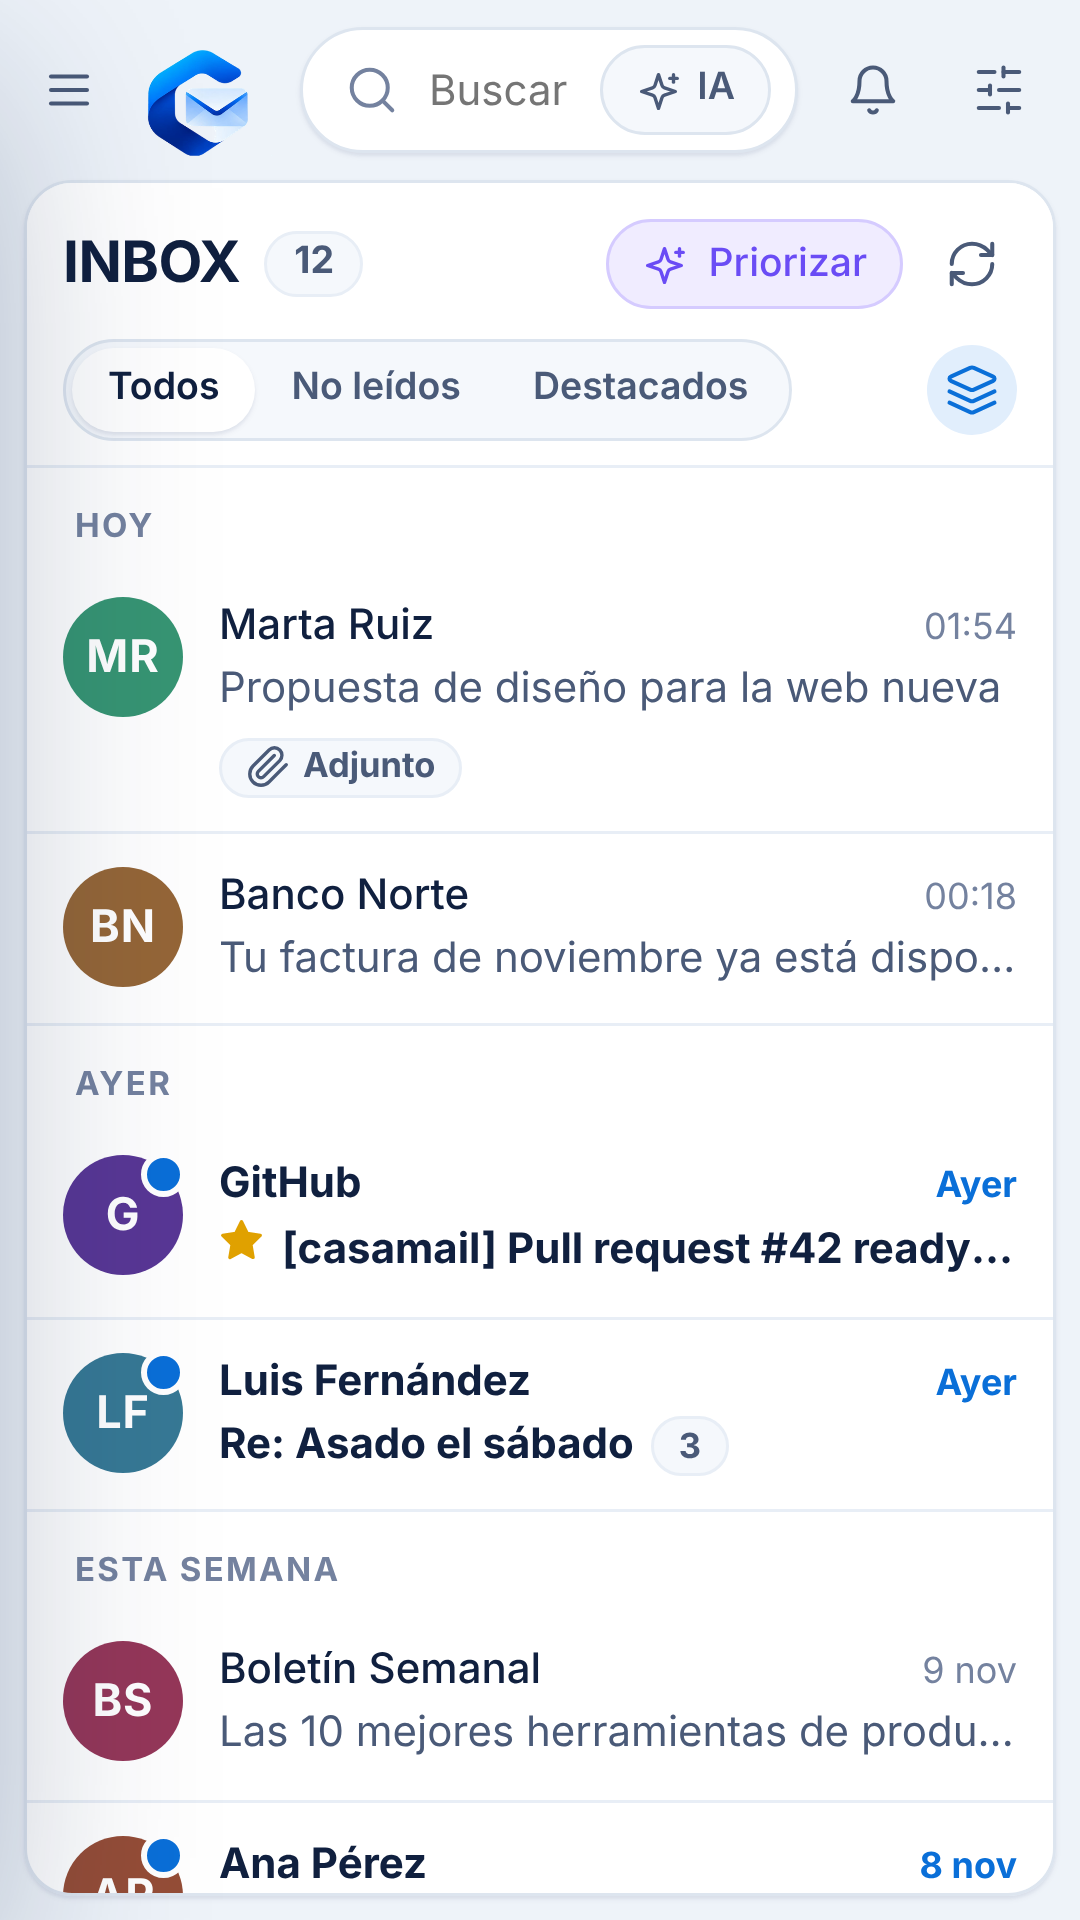
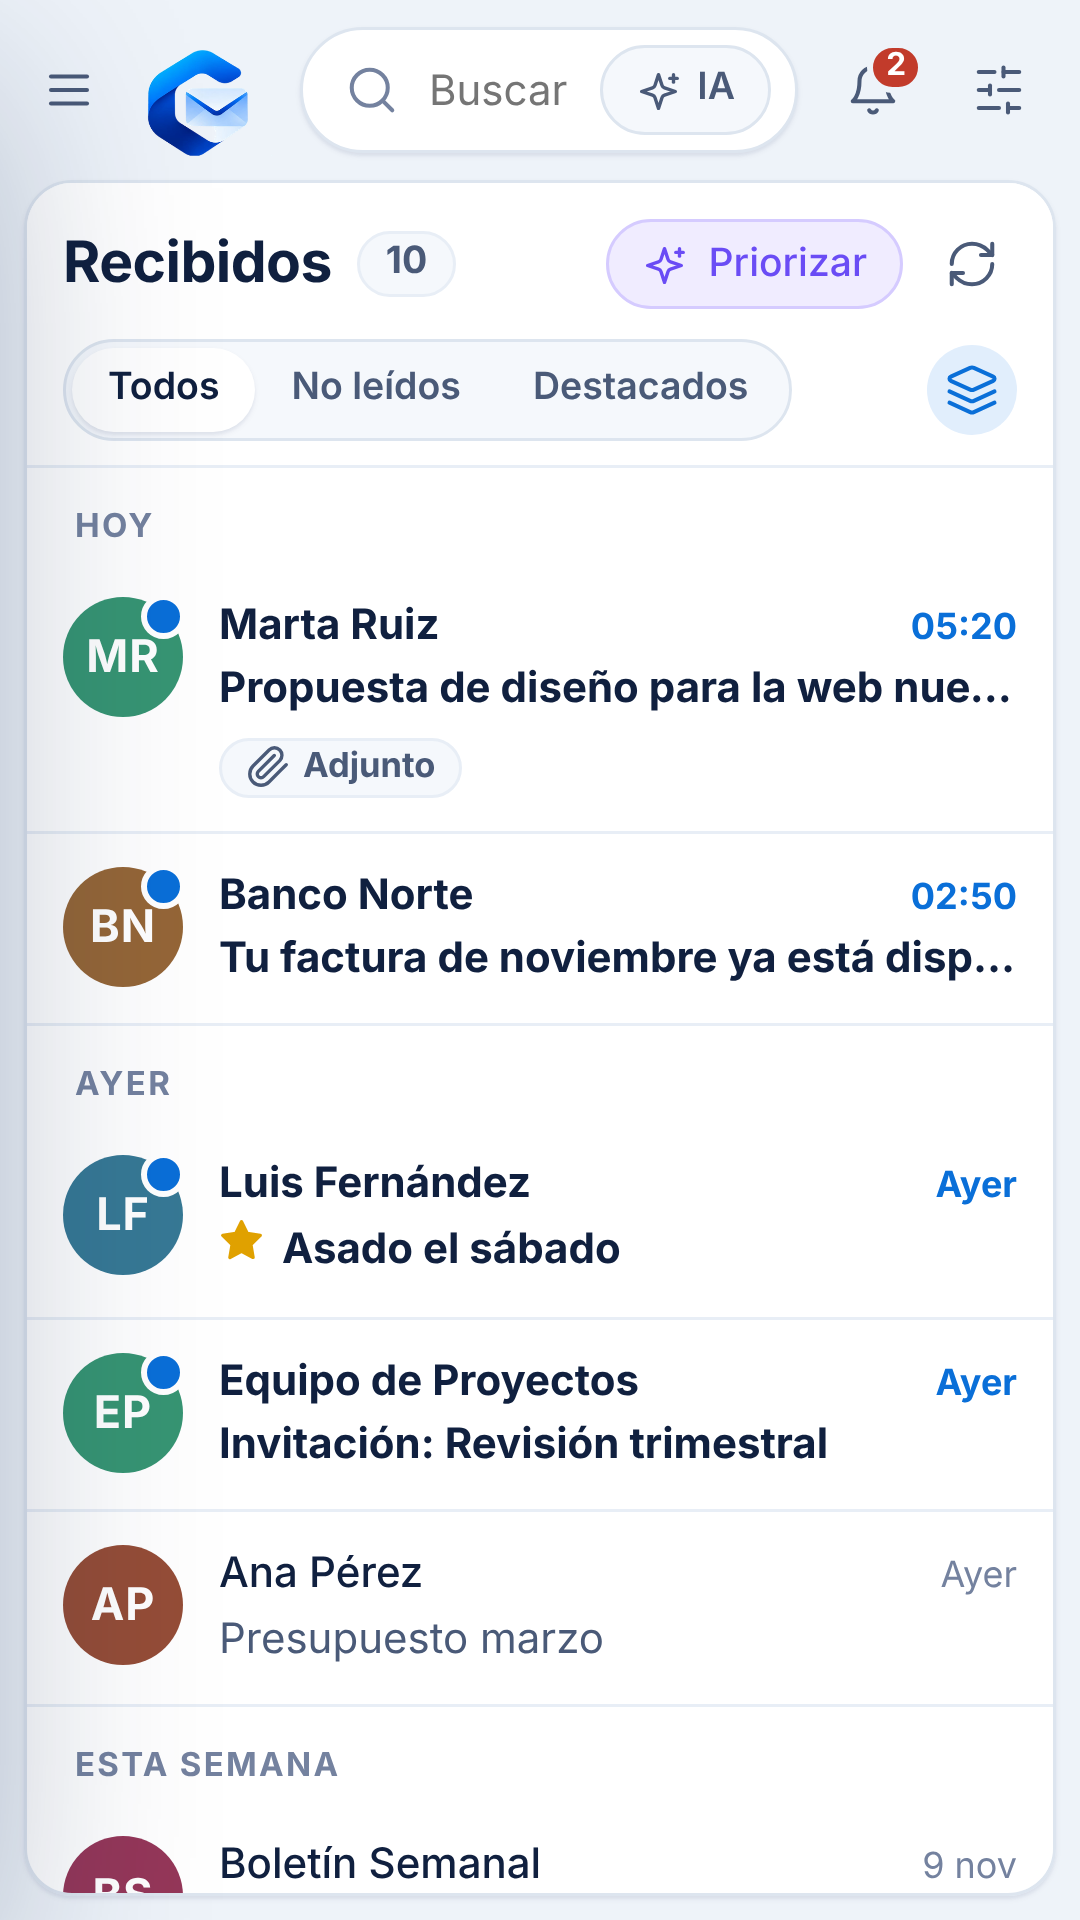
Capturas de Play con el modo demostración (6) y arreglo del calendario en pantallas estrechas
Claude-Session: https://claude.ai/code/session_017u4MCLijckaueg6bw4W1Fd

diff --git a/tests/play-shots.ts b/tests/play-shots.ts
@@ -1,0 +1,18 @@
+// Capturas de teléfono para Google Play (1080×1920) con el modo demostración. Uso: OUT=android/play PW_PATH=... npx tsx tests/play-shots.ts
+import fs from "node:fs"; import os from "node:os"; import path from "node:path"; import { spawn } from "node:child_process";
+process.env.CASAMAIL_HOME = fs.mkdtempSync(path.join(os.tmpdir(), "cm-playshots-"));
+const OUT = process.env.OUT ?? "android/play"; fs.mkdirSync(OUT, { recursive: true });
+const { chromium } = await import(process.env.PW_PATH ?? "playwright");
+const web = spawn("node", ["--import", "tsx", "src/web.ts"], { env: { ...process.env, PORT: "8086", CASAMAIL_TOKEN: "tok", CASAMAIL_NO_OPEN: "1", CASAMAIL_NO_WARMUP: "1" }, stdio: "ignore" });
+process.on("exit", () => web.kill()); await new Promise((r) => setTimeout(r, 3500));
+const b = await chromium.launch();
+const mk = async (scheme: "light" | "dark") => { const c = await b.newContext({ viewport: { width: 360, height: 640 }, deviceScaleFactor: 3, isMobile: true, hasTouch: true, colorScheme: scheme }); const p = await c.newPage(); p.setDefaultTimeout(12000); await p.goto("http://127.0.0.1:8086/?t=tok#demo"); await p.waitForSelector(".m"); await p.waitForTimeout(500); await p.evaluate(() => document.getElementById("demobar")?.remove()); return p; };
+const shot = async (p: any, n: string) => { await p.waitForTimeout(450); await p.screenshot({ path: `${OUT}/${n}.png` }); console.log("  📸", n); };
+const pg = await mk("light");
+await shot(pg, "play-1-bandeja");
+await pg.locator(".m", { hasText: "Propuesta de diseño" }).first().click(); await pg.waitForSelector(".vsub"); await shot(pg, "play-2-mensaje");
+await pg.click("#ais"); await pg.waitForSelector(".card-ai pre"); await shot(pg, "play-3-yerleny-resumen");
+await pg.click("#back"); await pg.click("#bell"); await pg.waitForSelector("#npanel .nrow"); await shot(pg, "play-4-avisos");
+await pg.evaluate(() => (document as any).querySelector("#bell").click()); await pg.click("#menu"); await pg.click("[data-cal]"); await pg.waitForSelector(".calev"); await shot(pg, "play-5-calendario");
+const dk = await mk("dark"); await shot(dk, "play-6-oscuro");
+await b.close(); web.kill(); process.exit(0);

diff --git a/public/app.css b/public/app.css
@@ -343,7 +343,7 @@ details.adv{border:1px solid var(--line);border-radius:12px;padding:10px 14px;ba
 .nact{display:flex;gap:8px;flex-wrap:wrap;align-items:center;margin-top:9px}
 .nempty{display:flex;flex-direction:column;align-items:center;text-align:center;gap:8px;color:var(--ink-3);padding:34px 24px}
 .nfoot{padding:8px 12px;border-top:1px solid var(--line-2);text-align:right}
-.calday{font-weight:700;text-transform:capitalize;margin:16px 0 6px;color:var(--ink-2);font-size:13px;letter-spacing:.02em}
+.calday{font-weight:700;margin:16px 0 6px;color:var(--ink-2);font-size:13px;letter-spacing:.02em}
 .calev{display:flex;gap:12px;align-items:center;padding:10px 12px;border:1px solid var(--line);border-radius:14px;margin-bottom:8px}
 .caltime{flex:none;width:58px;font-weight:700;font-variant-numeric:tabular-nums;color:var(--brand)}.caltime small{display:block;font-weight:500;color:var(--ink-3)}
 .calev .mut{font-size:13px;display:flex;gap:4px;align-items:center}
@@ -405,3 +405,7 @@ main.welcome #view{display:flex}  /* en el móvil la vista está oculta hasta ab
 /* modo demostración */
 #demobar{position:fixed;left:0;right:0;bottom:0;z-index:40;background:#0a3fbd;color:#fff;text-align:center;font-size:12.5px;padding:5px 10px;padding-bottom:calc(5px + env(safe-area-inset-bottom))}
 #demobar a{color:#fff;font-weight:700;margin-left:8px;text-decoration:underline}
+
+.calday::first-letter{text-transform:uppercase}
+/* móvil: el calendario y otros cuadros estrechos no se cortan por la derecha */
+@media(max-width:560px){#mbox.narrow{padding:16px}.narrow-in .row{flex-wrap:wrap}.calev{flex-wrap:wrap}.calev .grow{min-width:0;flex:1 1 140px}}
